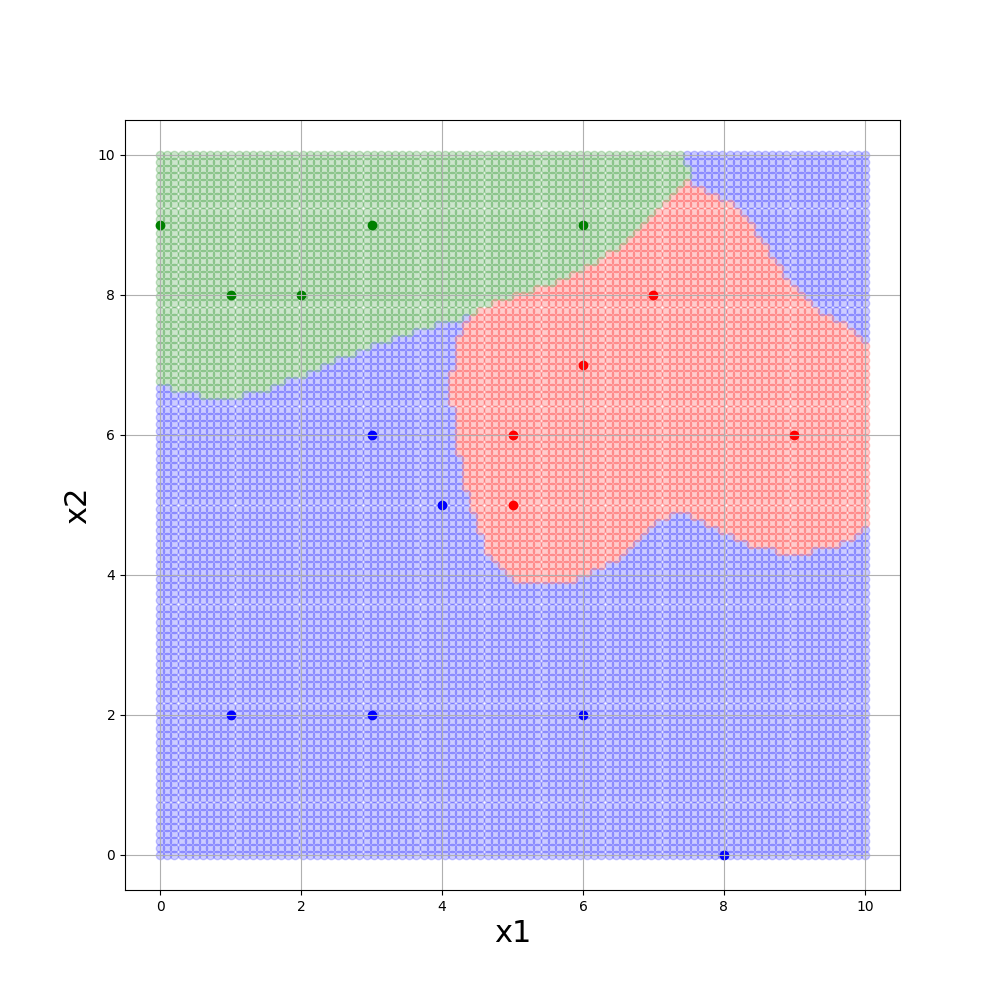
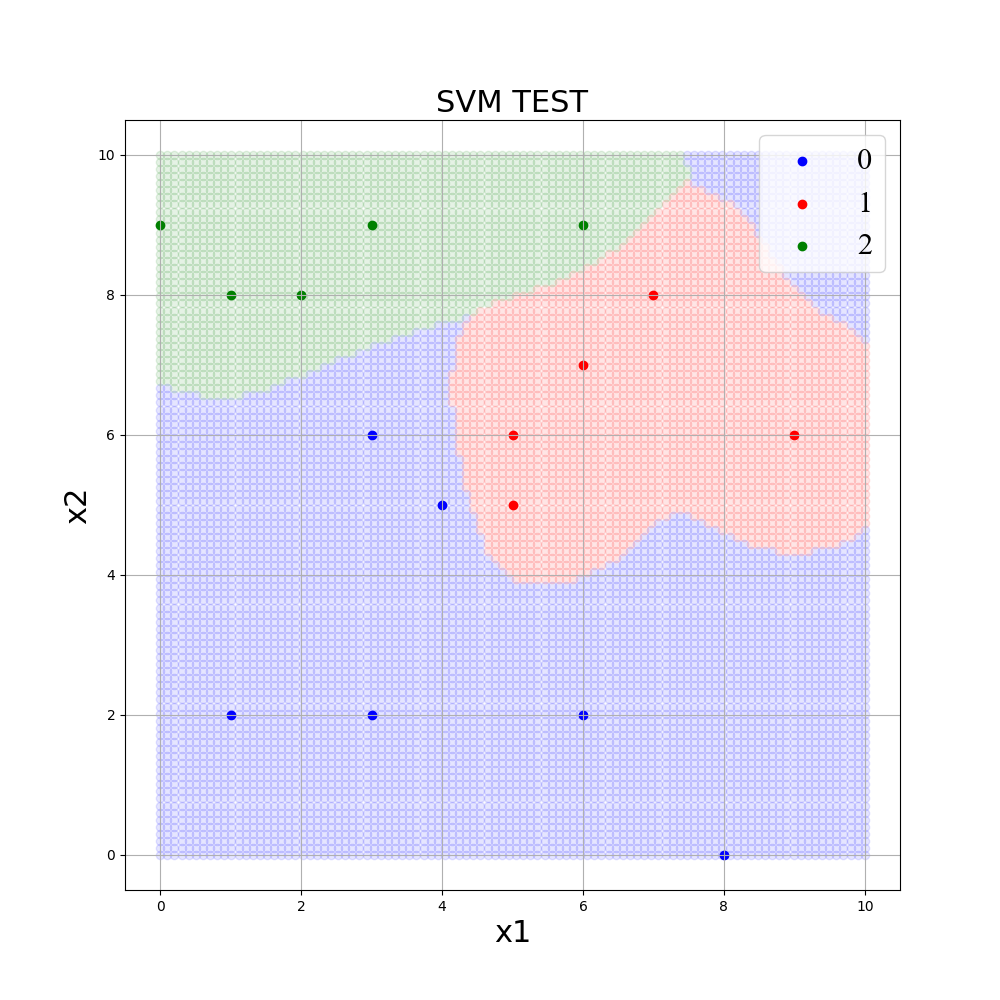
update

diff --git a/python/scikit/svm/ex3.py b/python/scikit/svm/ex3.py
@@ -82,17 +82,17 @@ plt.rcParams['font.size'] = lim_font_size  # 全体のフォント
 plt.rcParams['axes.linewidth'] = 1.0    # 軸の太さ
 
 # 格子データで散布図をプロットし、決定境界を描画（y=0:blue, y=1:red, y=2:green）
-plt.scatter(plot_X.T[0][plot_y == 0], plot_X.T[1][plot_y == 0], marker='o', color="blue", alpha=0.2)
-plt.scatter(plot_X.T[0][plot_y == 1], plot_X.T[1][plot_y == 1], marker='o', color="red", alpha=0.2)
-plt.scatter(plot_X.T[0][plot_y == 2], plot_X.T[1][plot_y == 2], marker='o', color="green", alpha=0.2)
+plt.scatter(plot_X.T[0][plot_y == 0], plot_X.T[1][plot_y == 0], marker='o', color="blue", alpha=0.1)
+plt.scatter(plot_X.T[0][plot_y == 1], plot_X.T[1][plot_y == 1], marker='o', color="red", alpha=0.1)
+plt.scatter(plot_X.T[0][plot_y == 2], plot_X.T[1][plot_y == 2], marker='o', color="green", alpha=0.1)
 
 # 学習用データを散布図にプロット（y=0:blue, y=1:red, y=2:green）
-plt.scatter(train_X.T[0][train_y == 0], train_X.T[1][train_y == 0], marker='o', color="blue", alpha=1.0)
-plt.scatter(train_X.T[0][train_y == 1], train_X.T[1][train_y == 1], marker='o', color="red", alpha=1.0)
-plt.scatter(train_X.T[0][train_y == 2], train_X.T[1][train_y == 2], marker='o', color="green", alpha=1.0)
+plt.scatter(train_X.T[0][train_y == 0], train_X.T[1][train_y == 0], marker='o', label="0", color="blue", alpha=1.0)
+plt.scatter(train_X.T[0][train_y == 1], train_X.T[1][train_y == 1], marker='o', label="1", color="red", alpha=1.0)
+plt.scatter(train_X.T[0][train_y == 2], train_X.T[1][train_y == 2], marker='o', label="2", color="green", alpha=1.0)
 
-#plt.legend(loc=1)           # 凡例の表示（2：位置は第二象限）
-#plt.title('SVM TEST', fontsize=lim_font_size)   # グラフタイトル
+plt.legend(loc=1)           # 凡例の表示（2：位置は第二象限）
+plt.title('SVM TEST', fontsize=lim_font_size)   # グラフタイトル
 plt.xlabel('x1', fontsize=lim_font_size)            # x軸ラベル
 plt.ylabel('x2', fontsize=lim_font_size)            # y軸ラベル
 

diff --git a/python/scikit/svm/ex4.py b/python/scikit/svm/ex4.py
@@ -150,14 +150,15 @@ class SVM():
         plt.rcParams['font.size'] = lim_font_size  # 全体のフォント
         plt.rcParams['axes.linewidth'] = 1.0    # 軸の太さ
 
+        # 散布図のプロット
         for idx, (class_data, class_color) in enumerate(zip(class_datas, class_colors)):
-
-            # 格子データで散布図をプロットし、決定境界を描画（y=0:blue, y=1:red, y=2:green）
+            # 格子データをプロットし、決定境界を描画
             plt.scatter(plot_X.T[0][plot_y == class_data], plot_X.T[1][plot_y == class_data], marker='o', color=class_color, alpha=0.1)
-            plt.scatter(train_X.T[0][train_y == class_data], train_X.T[1][train_y == class_data], marker='o', color=class_color, alpha=1.0)
+            # 学習用データをプロット
+            plt.scatter(train_X.T[0][train_y == class_data], train_X.T[1][train_y == class_data], marker='o', label=str(class_data), color=class_color, alpha=1.0)
 
-        #plt.legend(loc=1)           # 凡例の表示（2：位置は第二象限）
-        #plt.title('SVM TEST', fontsize=lim_font_size)   # グラフタイトル
+        plt.legend(loc=1)           # 凡例の表示（2：位置は第二象限）
+        plt.title('SVM TEST', fontsize=lim_font_size)   # グラフタイトル
         plt.xlabel(x1_name, fontsize=lim_font_size)            # x軸ラベル
         plt.ylabel(x2_name, fontsize=lim_font_size)            # y軸ラベル
 
